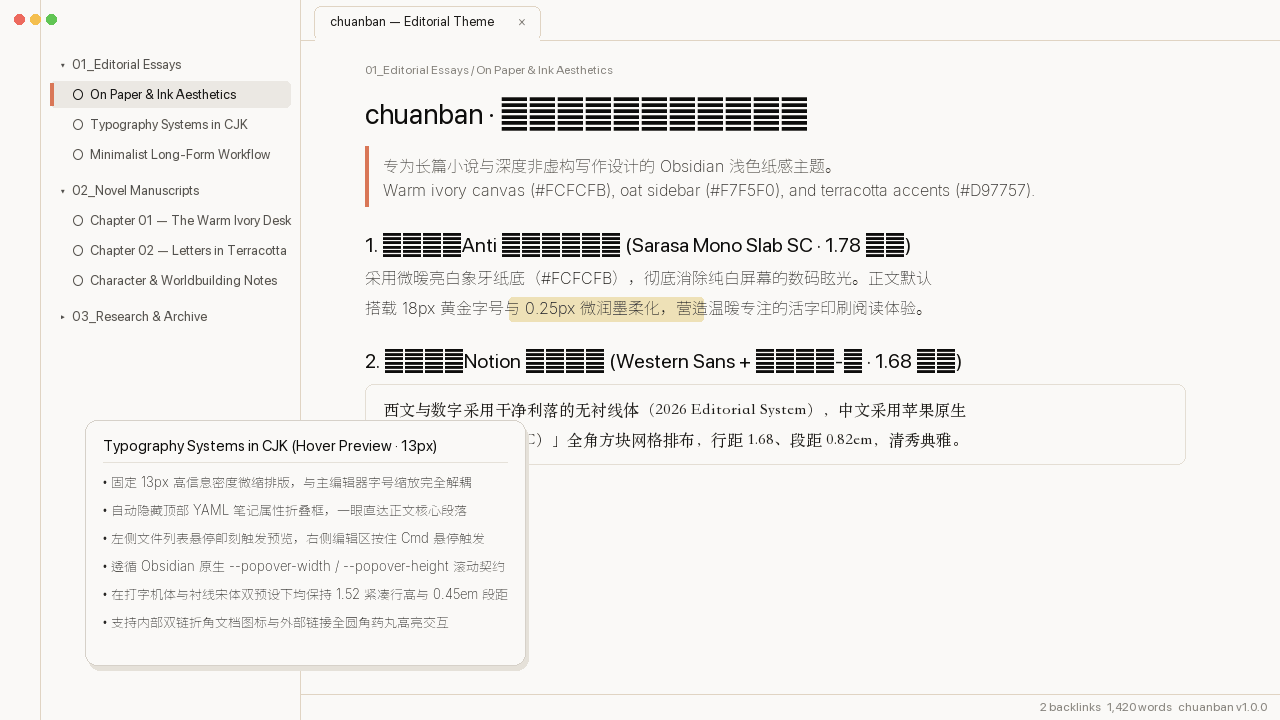
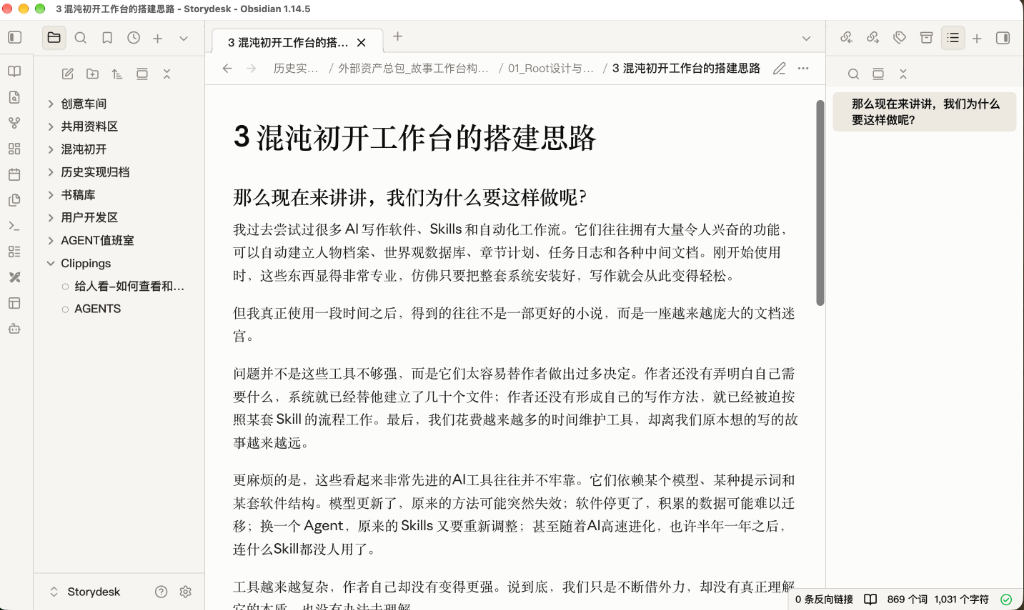
chore(release): 1.0.2 - update official screenshot, clarify pure-CSS preset options & rename preset-songti-serif

diff --git a/theme.css b/theme.css
@@ -1,7 +1,7 @@
 /* ==============================================================================
    chuanban — Warm Editorial & Long-Form Writing Theme for Obsidian
    Author: chuanban (https://github.com/Anarcadia)
-   Version: 1.0.1
+   Version: 1.0.2
    License: MIT
    Description: 专为小说创作与长篇深度非虚构写作定制的 Obsidian 原生独立主题。
                 融合现代人文编辑室与实体书卷排版哲学，
@@ -38,8 +38,8 @@ settings:
       options:
           - label: "更纱打字机体 (默认 · Sarasa Mono Slab SC · 1.78行高)"
             value: preset-typewriter
-          - label: "经典衬线宋体 (书卷版 · 西文无衬线 + 全角宋体-简 · 1.68行高)"
-            value: preset-notion-serif
+          - label: "经典书卷宋体 (Classic Songti Serif · 西文无衬线 + 全角宋体-简 · 1.68行高)"
+            value: preset-songti-serif
     - id: line-height-normal
       title: 正文行高 (Body Line Height)
       description: 调整正文标准阅读行高 (默认 1.78，衬线预设默认 1.68)
@@ -118,8 +118,8 @@ body {
   /* 正文阅读 (预设 1)：开源更纱粗衬线打字机体 (Sarasa Mono Slab SC + JetBrains Mono + 等宽回退) */
   --ag-font-content: 'Sarasa Mono Slab SC', '等距更纱黑体 Slab SC', 'JetBrains Mono', ui-monospace, 'SFMono-Regular', Menlo, Monaco, Consolas, monospace;
   
-  /* 正文阅读 (预设 2)：西文无衬线 + 中文原生宋体-简 */
-  --ag-font-notion-serif: 'Chuanban Western Sans', 'Songti SC', 'Songti TC', 'STSong', 'Newsreader', 'Source Serif 4', 'Georgia', serif;
+  /* 正文阅读 (预设 2 · 经典书卷宋体)：西文无衬线 + 中文原生宋体-简 */
+  --ag-font-songti-serif: 'Chuanban Western Sans', 'Songti SC', 'Songti TC', 'STSong', 'Newsreader', 'Source Serif 4', 'Georgia', serif;
 
   /* 代码与技术徽章：等宽更纱黑体 Slab 与开源等宽字体 */
   --ag-font-mono: 'Sarasa Mono Slab SC', '等距更纱黑体 Slab SC', 'Sarasa Mono SC', '等距更纱黑体 SC', 'JetBrains Mono', ui-monospace, 'SFMono-Regular', Menlo, Monaco, Consolas, monospace;
@@ -1666,24 +1666,32 @@ a.external-link::after,
 
 /* ==============================================================================
    11. 排版预设扩展系统 (Typography Preset Extensions)
-   - 默认预设 (Preset 1): Anti 更纱打字机体 (Sarasa Mono Slab SC · 1.78行高 · 0.38em/0.95em段距 · 0.25px润墨)
-   - 衬线预设 (Preset 2): Notion Desktop 衬线宋体 (Chuanban Western Sans + Songti SC 宋体-简 · 1.68行高 · 0.82em/1.05em段距 · 锐利无阴影)
-   - 激活方式：
-     ① 左侧边栏一键按钮 (Ribbon Icon)
-     ② 命令面板 (Cmd+P -> 一键切换排版预设)
-     ③ 外观设置 -> CSS 代码片段 (preset-notion-serif 开关)
-     ④ Style Settings 下拉选择
-     ⑤ 任意单篇文档 YAML frontmatter: cssclasses: [preset-notion-serif]
+   - 默认预设 (Preset 1): 更纱打字机体 (Sarasa Mono Slab SC · 1.78行高 · 0.38em/0.95em段距 · 0.25px润墨)
+   - 书卷宋体预设 (Preset 2): 经典书卷宋体 (Chuanban Western Sans + Songti SC 宋体-简 · 1.68行高 · 0.82em/1.05em段距 · 锐利无阴影)
+   - 激活方式 (公开版纯 CSS 主题不含额外插件，默认即更纱打字机体；如需切换书卷宋体)：
+     ① 任意单篇文档 YAML frontmatter: cssclasses: [preset-songti-serif]
+     ② 社区通用插件 Style Settings 下拉选择 (chuanban -> 排版与字体预设)
    ============================================================================== */
 
+body.preset-songti-serif,
+.preset-songti-serif,
 body.preset-notion-serif,
 .preset-notion-serif {
-  --font-text-theme: var(--ag-font-notion-serif);
+  --font-text-theme: var(--ag-font-songti-serif);
   --font-text: var(--font-text-override, var(--font-text-theme));
   --line-height-normal: 1.68;
   --p-spacing: 1.05em;
 }
 
+body.preset-songti-serif .markdown-rendered,
+body.preset-songti-serif .markdown-source-view.mod-cm6 .cm-content,
+body.preset-songti-serif .markdown-source-view.mod-cm6 .cm-line,
+.preset-songti-serif.markdown-rendered,
+.preset-songti-serif .markdown-rendered,
+.preset-songti-serif.markdown-source-view.mod-cm6 .cm-content,
+.preset-songti-serif .markdown-source-view.mod-cm6 .cm-content,
+.preset-songti-serif.markdown-source-view.mod-cm6 .cm-line,
+.preset-songti-serif .markdown-source-view.mod-cm6 .cm-line,
 body.preset-notion-serif .markdown-rendered,
 body.preset-notion-serif .markdown-source-view.mod-cm6 .cm-content,
 body.preset-notion-serif .markdown-source-view.mod-cm6 .cm-line,
@@ -1693,7 +1701,7 @@ body.preset-notion-serif .markdown-source-view.mod-cm6 .cm-line,
 .preset-notion-serif .markdown-source-view.mod-cm6 .cm-content,
 .preset-notion-serif.markdown-source-view.mod-cm6 .cm-line,
 .preset-notion-serif .markdown-source-view.mod-cm6 .cm-line {
-  font-family: var(--ag-font-notion-serif) !important;
+  font-family: var(--ag-font-songti-serif) !important;
   line-height: var(--line-height-normal) !important;
   letter-spacing: normal !important;
   text-shadow: none !important;
@@ -1702,12 +1710,20 @@ body.preset-notion-serif .markdown-source-view.mod-cm6 .cm-line,
   font-feature-settings: "tnum" 1, "halt" 0, "chws" 0, "pwid" 0 !important;
 }
 
+body.preset-songti-serif .cm-line,
+.preset-songti-serif .cm-line,
 body.preset-notion-serif .cm-line,
 .preset-notion-serif .cm-line {
   line-height: var(--line-height-normal) !important;
   padding-bottom: 0.82em !important;
 }
 
+body.preset-songti-serif .cm-line.HyperMD-codeblock,
+body.preset-songti-serif .cm-line:has(.cm-table-widget),
+body.preset-songti-serif .cm-line:empty,
+.preset-songti-serif .cm-line.HyperMD-codeblock,
+.preset-songti-serif .cm-line:has(.cm-table-widget),
+.preset-songti-serif .cm-line:empty,
 body.preset-notion-serif .cm-line.HyperMD-codeblock,
 body.preset-notion-serif .cm-line:has(.cm-table-widget),
 body.preset-notion-serif .cm-line:empty,
@@ -1717,11 +1733,19 @@ body.preset-notion-serif .cm-line:empty,
   padding-bottom: 0 !important;
 }
 
+body.preset-songti-serif .cm-line.HyperMD-list-line,
+.preset-songti-serif .cm-line.HyperMD-list-line,
 body.preset-notion-serif .cm-line.HyperMD-list-line,
 .preset-notion-serif .cm-line.HyperMD-list-line {
   padding-bottom: 0.35em !important;
 }
 
+body.preset-songti-serif .markdown-rendered p,
+body.preset-songti-serif .markdown-rendered li,
+.preset-songti-serif.markdown-rendered p,
+.preset-songti-serif .markdown-rendered p,
+.preset-songti-serif.markdown-rendered li,
+.preset-songti-serif .markdown-rendered li,
 body.preset-notion-serif .markdown-rendered p,
 body.preset-notion-serif .markdown-rendered li,
 .preset-notion-serif.markdown-rendered p,
@@ -1732,6 +1756,22 @@ body.preset-notion-serif .markdown-rendered li,
   margin-block: 0 var(--p-spacing, 1.05em) !important;
 }
 
+body.preset-songti-serif .inline-title,
+body.preset-songti-serif .markdown-rendered h1, body.preset-songti-serif .cm-header-1,
+body.preset-songti-serif .markdown-rendered h2, body.preset-songti-serif .cm-header-2,
+body.preset-songti-serif .markdown-rendered h3, body.preset-songti-serif .cm-header-3,
+body.preset-songti-serif .markdown-rendered h4, body.preset-songti-serif .cm-header-4,
+body.preset-songti-serif .markdown-rendered h5, body.preset-songti-serif .cm-header-5,
+body.preset-songti-serif .markdown-rendered h6, body.preset-songti-serif .cm-header-6,
+body.preset-songti-serif .cm-line.HyperMD-header,
+.preset-songti-serif .inline-title,
+.preset-songti-serif.markdown-rendered h1, .preset-songti-serif .markdown-rendered h1, .preset-songti-serif .cm-header-1,
+.preset-songti-serif.markdown-rendered h2, .preset-songti-serif .markdown-rendered h2, .preset-songti-serif .cm-header-2,
+.preset-songti-serif.markdown-rendered h3, .preset-songti-serif .markdown-rendered h3, .preset-songti-serif .cm-header-3,
+.preset-songti-serif.markdown-rendered h4, .preset-songti-serif .markdown-rendered h4, .preset-songti-serif .cm-header-4,
+.preset-songti-serif.markdown-rendered h5, .preset-songti-serif .markdown-rendered h5, .preset-songti-serif .cm-header-5,
+.preset-songti-serif.markdown-rendered h6, .preset-songti-serif .markdown-rendered h6, .preset-songti-serif .cm-header-6,
+.preset-songti-serif .cm-line.HyperMD-header,
 body.preset-notion-serif .inline-title,
 body.preset-notion-serif .markdown-rendered h1, body.preset-notion-serif .cm-header-1,
 body.preset-notion-serif .markdown-rendered h2, body.preset-notion-serif .cm-header-2,
@@ -1748,7 +1788,7 @@ body.preset-notion-serif .cm-line.HyperMD-header,
 .preset-notion-serif.markdown-rendered h5, .preset-notion-serif .markdown-rendered h5, .preset-notion-serif .cm-header-5,
 .preset-notion-serif.markdown-rendered h6, .preset-notion-serif .markdown-rendered h6, .preset-notion-serif .cm-header-6,
 .preset-notion-serif .cm-line.HyperMD-header {
-  font-family: var(--ag-font-notion-serif) !important;
+  font-family: var(--ag-font-songti-serif) !important;
   letter-spacing: -0.015em !important;
   text-shadow: none !important;
   font-variant-numeric: tabular-nums !important;
@@ -1756,25 +1796,36 @@ body.preset-notion-serif .cm-line.HyperMD-header,
   font-feature-settings: "tnum" 1, "halt" 0, "chws" 0 !important;
 }
 
+body.preset-songti-serif .markdown-rendered blockquote,
+body.preset-songti-serif .markdown-source-view.mod-cm6.is-live-preview .HyperMD-quote,
+.preset-songti-serif.markdown-rendered blockquote,
+.preset-songti-serif .markdown-rendered blockquote,
+.preset-songti-serif .markdown-source-view.mod-cm6.is-live-preview .HyperMD-quote,
 body.preset-notion-serif .markdown-rendered blockquote,
 body.preset-notion-serif .markdown-source-view.mod-cm6.is-live-preview .HyperMD-quote,
 .preset-notion-serif.markdown-rendered blockquote,
 .preset-notion-serif .markdown-rendered blockquote,
 .preset-notion-serif .markdown-source-view.mod-cm6.is-live-preview .HyperMD-quote {
-  font-family: var(--ag-font-notion-serif) !important;
+  font-family: var(--ag-font-songti-serif) !important;
   line-height: var(--line-height-normal) !important;
   text-shadow: none !important;
   font-variant-numeric: tabular-nums !important;
   font-variant-east-asian: full-width !important;
 }
 
+body.preset-songti-serif .callout,
+body.preset-songti-serif .callout-title,
+body.preset-songti-serif .callout-content,
+.preset-songti-serif .callout,
+.preset-songti-serif .callout-title,
+.preset-songti-serif .callout-content,
 body.preset-notion-serif .callout,
 body.preset-notion-serif .callout-title,
 body.preset-notion-serif .callout-content,
 .preset-notion-serif .callout,
 .preset-notion-serif .callout-title,
 .preset-notion-serif .callout-content {
-  font-family: var(--ag-font-notion-serif) !important;
+  font-family: var(--ag-font-songti-serif) !important;
   font-variant-numeric: tabular-nums !important;
   font-variant-east-asian: full-width !important;
 }

diff --git a/README.md b/README.md
@@ -2,7 +2,7 @@
 
 ![chuanban Theme Screenshot](screenshot.png)
 
-**chuanban** is a warm, high-contrast paper-and-ink light theme crafted for novelists, essayists, and deep long-form writers in Obsidian. It combines warm ivory and oat paper surfaces, terracotta accents, tactile ink-softening typography, high-density page preview popovers, and dual built-in CJK/Western typography presets.
+**chuanban** is a warm, high-contrast paper-and-ink light theme crafted for novelists, essayists, and deep long-form writers in Obsidian. It combines warm ivory and oat paper surfaces, terracotta accents, tactile ink-softening typography, and high-density page preview popovers.
 
 ---
 
@@ -14,10 +14,10 @@
 - **Terracotta Accent (`#D97757`)**: Used for active tabs, blockquotes, links, and focus indicators.
 - **Eye-Care Selection & Highlight**: Soft sage-green text selection (`rgba(130, 175, 138, 0.24)`) + warm amber marker highlight (`rgba(232, 197, 110, 0.28)`).
 
-### 2. Dual Built-in Typography Presets (双排版预设切换)
-Switch seamlessly via the **Style Settings** plugin (`chuanban -> Typography Preset`), `body.preset-notion-serif` class, or per-note YAML `cssclasses: [preset-notion-serif]`:
+### 2. Built-in CJK/Western Typography Styles (内置双排版样式)
+> **Note**: As an official Obsidian Community Theme, this package is a **pure CSS theme** and does not bundle any third-party plugins. Out of the box, it defaults to **Typewriter Slab**. If you wish to switch to the built-in **Classic Songti Serif** style, you can either add `cssclasses: [preset-songti-serif]` to a note's YAML frontmatter or use the community **Style Settings** plugin (`chuanban -> Typography Preset`).
 
-| Feature | Preset 1: Typewriter Slab (Default / 默认) | Preset 2: Notion Serif (衬线宋体预设) |
+| Feature | Default: Typewriter Slab (更纱打字机体 · 默认开箱即用) | Optional: Classic Songti Serif (经典书卷宋体 · `preset-songti-serif`) |
 | :--- | :--- | :--- |
 | **Font Stack** | `Sarasa Mono Slab SC` (`等距更纱黑体 Slab SC`) | Western Sans (`SF Pro Text` / `Inter`) + `Songti SC` (`宋体-简` 全角方块排布) |
 | **Line Height** | `1.78` | `1.68` |
@@ -33,11 +33,11 @@ Switch seamlessly via the **Style Settings** plugin (`chuanban -> Typography Pre
 ## 🔤 Recommended Fonts / 推荐字体安装
 
 For the best typography experience on macOS / Windows / Linux:
-1. **Sarasa Mono Slab SC (`等距更纱黑体 Slab SC`)** — Recommended for Preset 1 (Typewriter Slab):
+1. **Sarasa Mono Slab SC (`等距更纱黑体 Slab SC`)** — Recommended for the default Typewriter Slab style:
    ```bash
    brew install --cask font-sarasa-gothic
    ```
-2. **Songti SC (`宋体-简`)** — Built into macOS for Preset 2 (Notion Serif).
+2. **Songti SC (`宋体-简`)** — Built into macOS for the optional Classic Songti Serif style.
 
 ---
 
